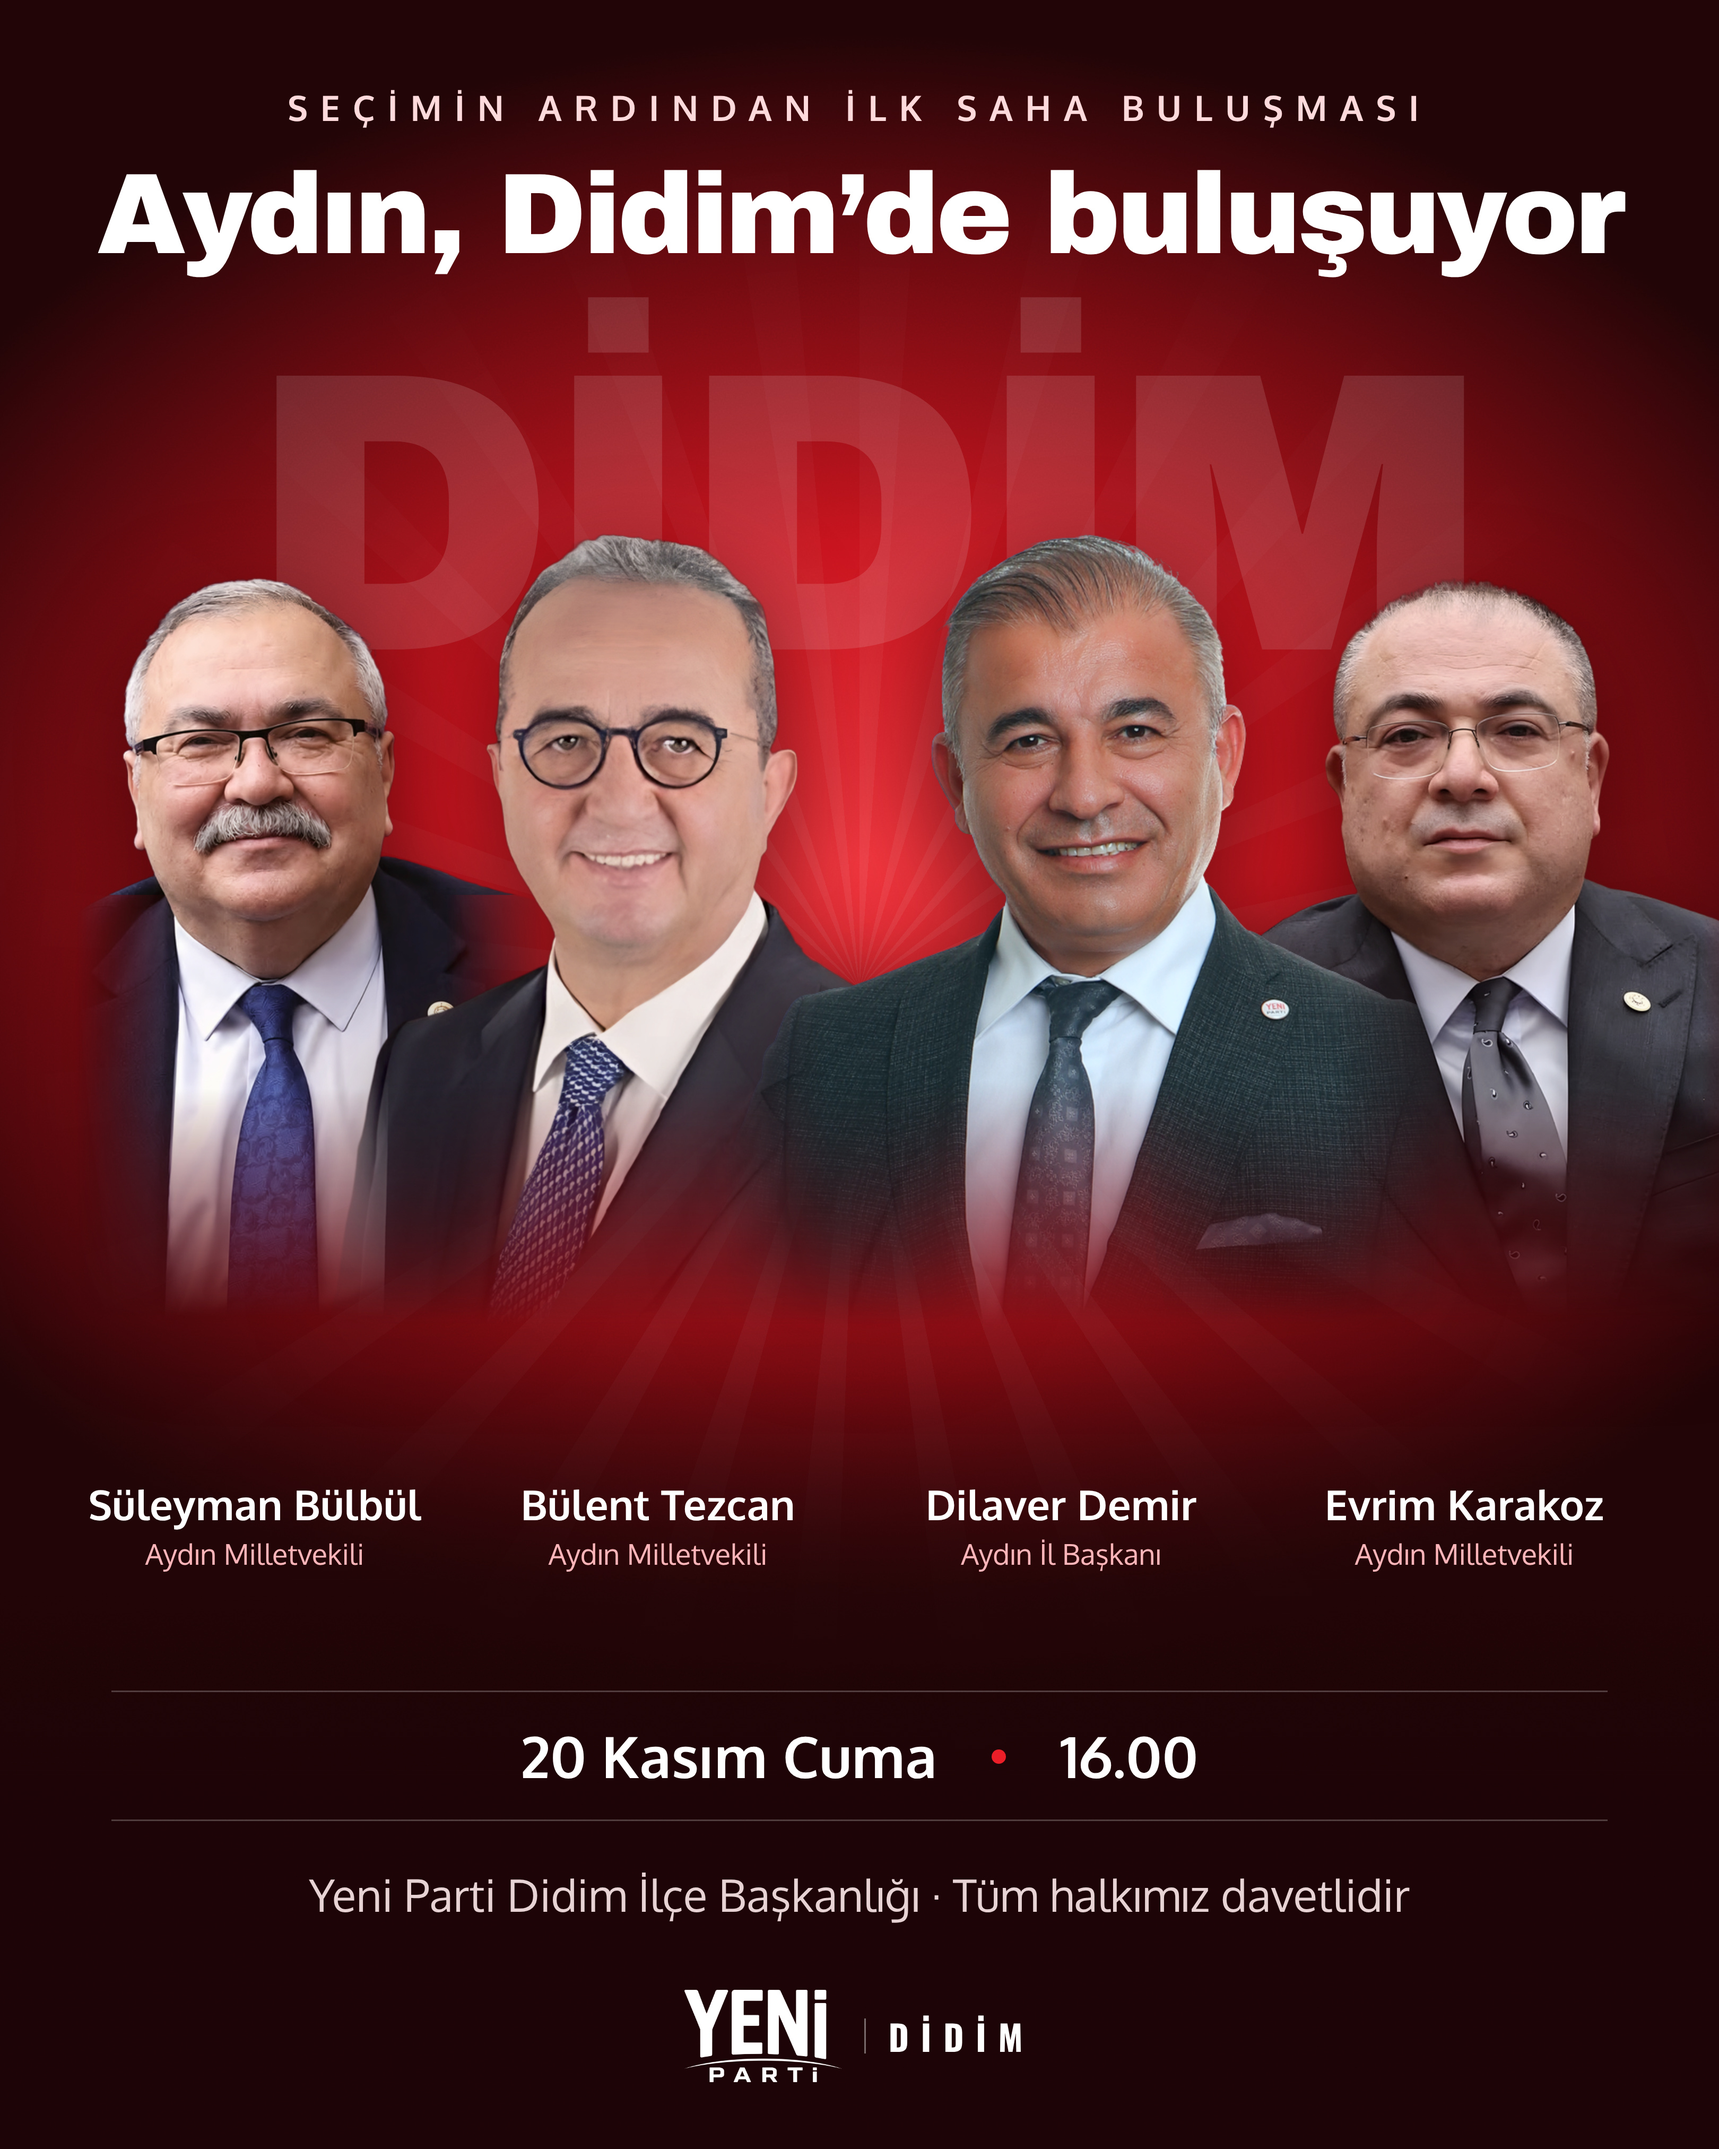
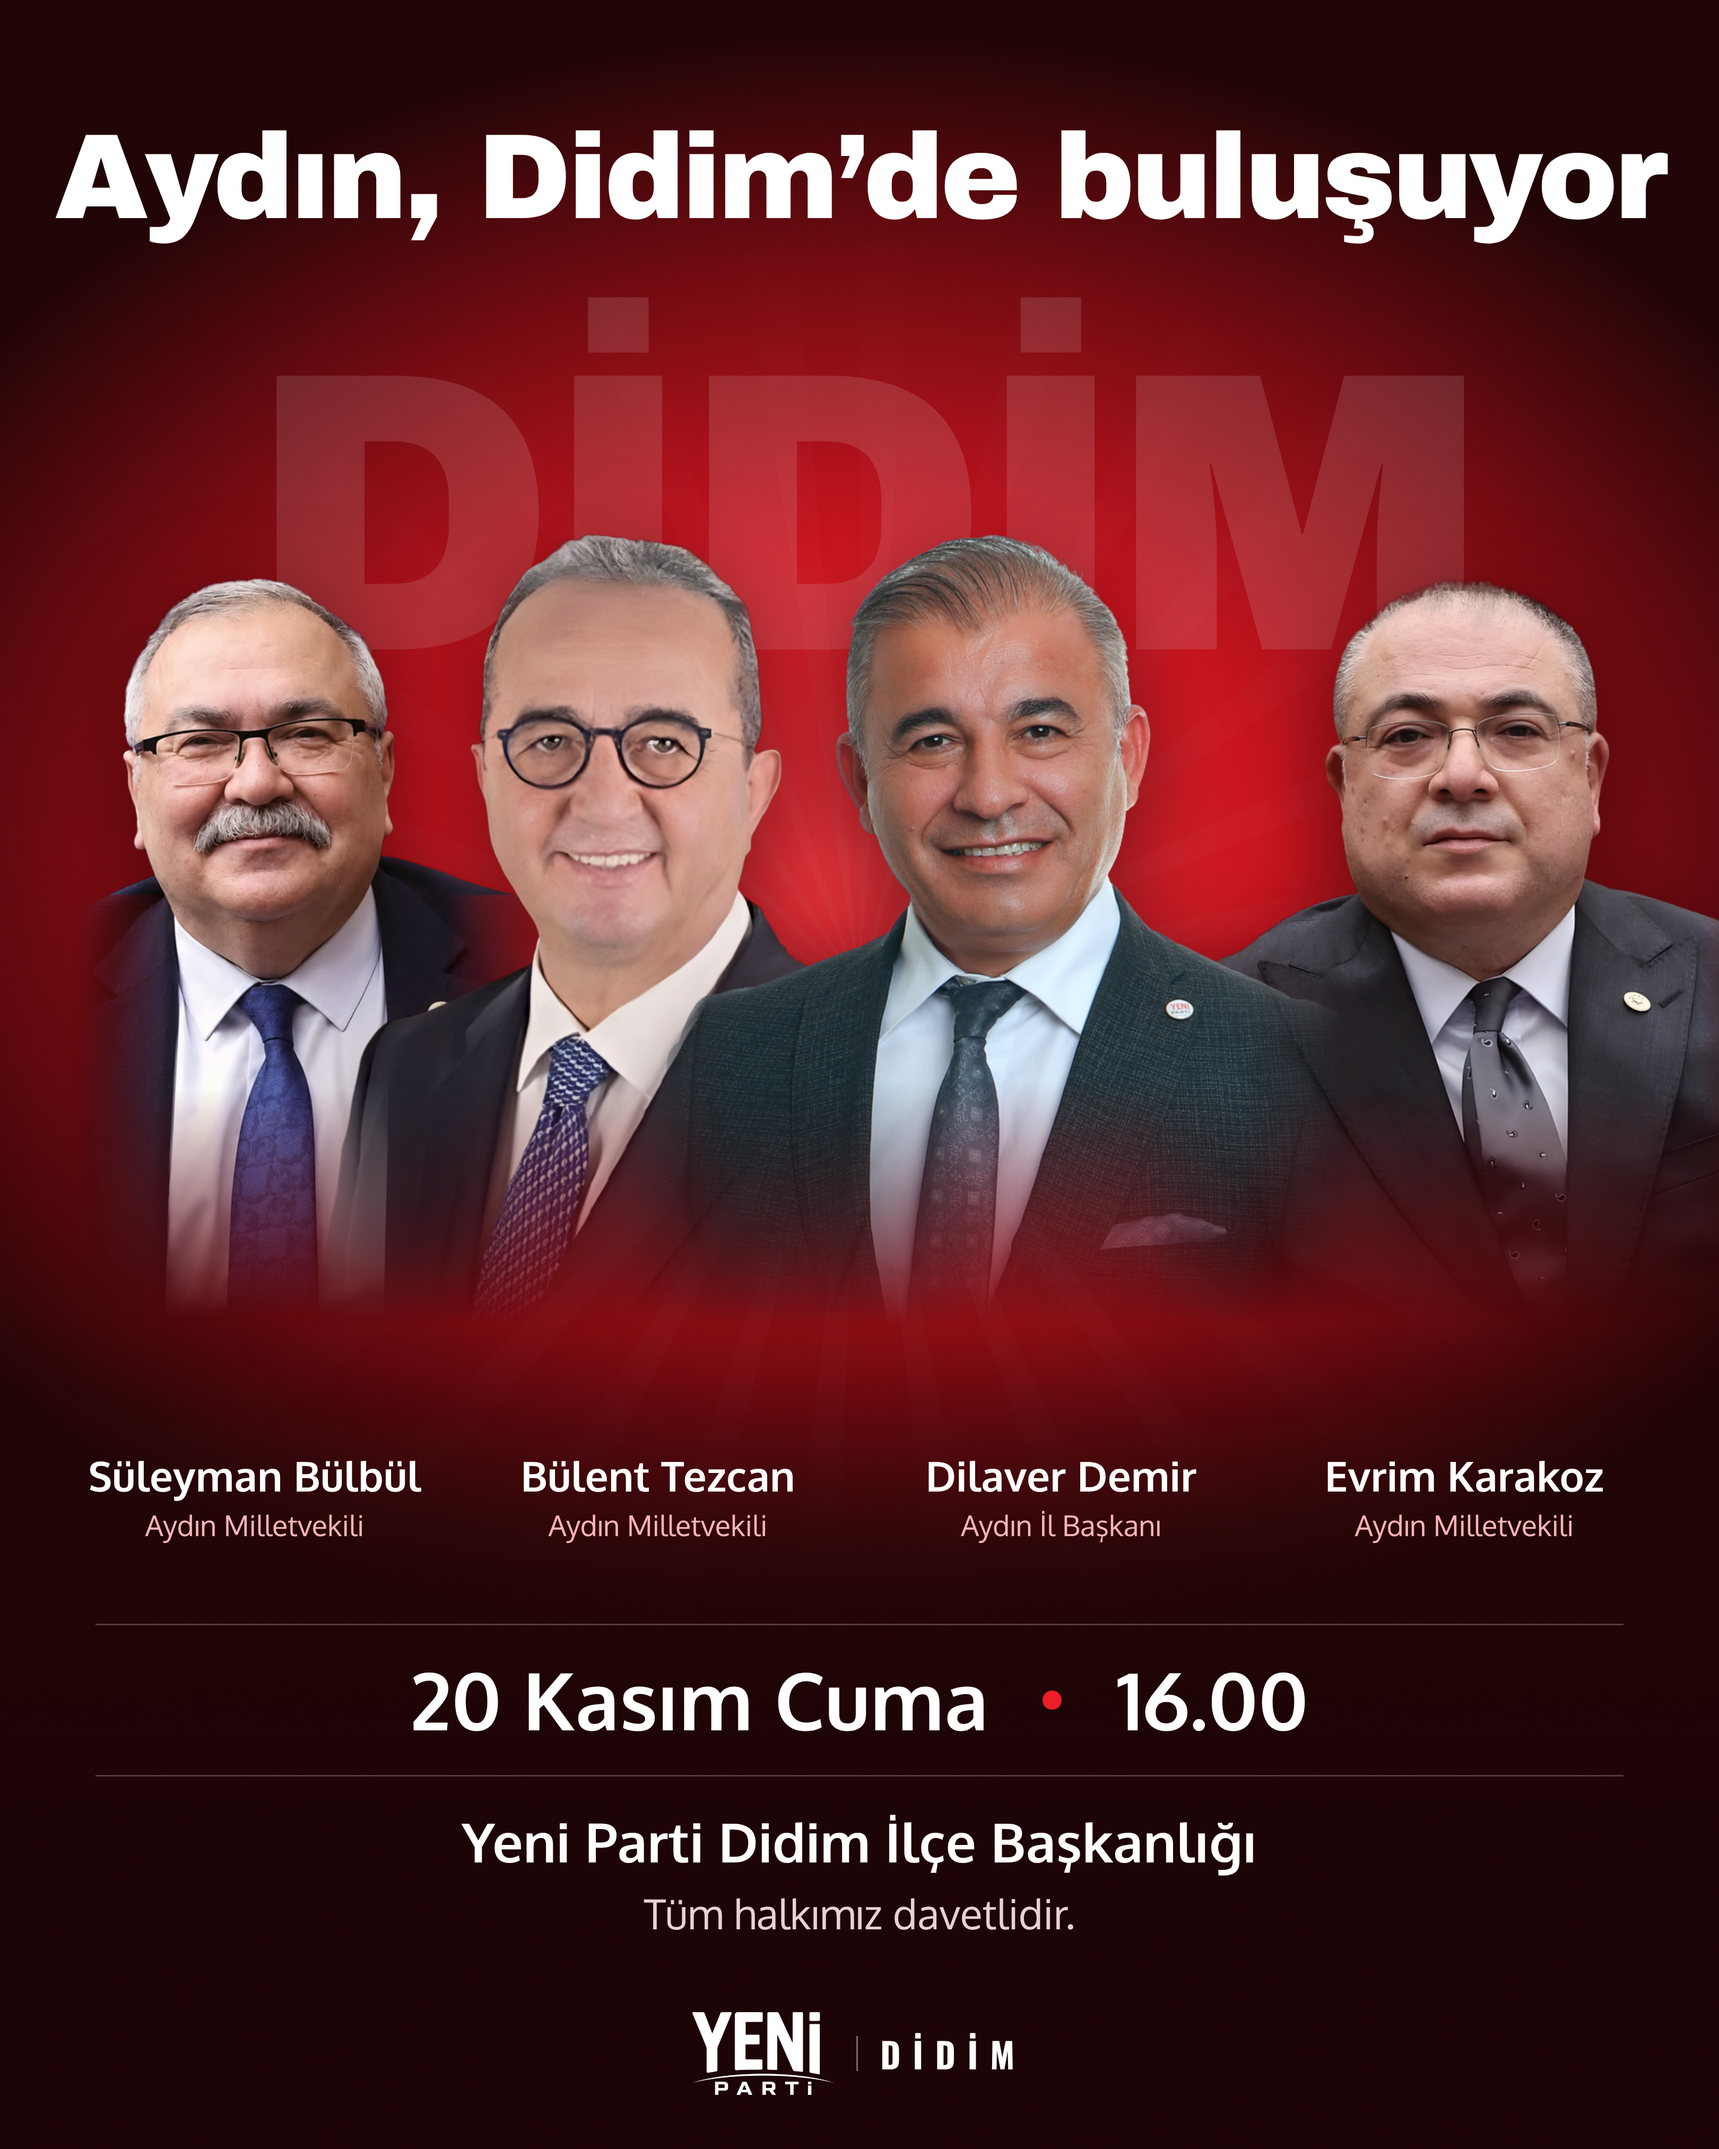
Vekil ziyareti: üst yazı kaldırıldı, araya düşen ışık kapatıldı, bilgi büyütüldü
Claude-Session: https://claude.ai/code/session_01SatttGbgBLoCnk9KGLypWv

diff --git a/tasarim/kisisel/vekil-ziyaret/grup.html b/tasarim/kisisel/vekil-ziyaret/grup.html
@@ -8,33 +8,33 @@
 :root{--kir:#EC1E27}
 html,body{margin:0;width:1080px;height:1350px;overflow:hidden;color:#fff;font-family:Ox,sans-serif;
 background:radial-gradient(700px 520px at 50% 40%,#F2363E 0,#C8141E 38%,#6E0A10 72%,#200406 100%)}
-.isin{position:absolute;inset:0;background:repeating-conic-gradient(from 0deg at 50% 46%,rgba(255,255,255,.07) 0 4deg,transparent 4deg 13deg);-webkit-mask:radial-gradient(circle at 50% 46%,#000 0,transparent 62%)}
+.isin{position:absolute;inset:0;background:repeating-conic-gradient(from 0deg at 50% 46%,rgba(255,255,255,.035) 0 4deg,transparent 4deg 13deg);-webkit-mask:radial-gradient(circle at 50% 46%,#000 0,transparent 62%)}
 .gren{position:absolute;inset:0;opacity:.12;mix-blend-mode:overlay}
 .arka{position:absolute;left:0;right:0;top:200px;text-align:center;font:250px/1 AB;letter-spacing:-.04em;color:rgba(255,255,255,.12)}
 .ust{position:absolute;left:0;right:0;top:56px;text-align:center}
 .ust .k{font:700 22px/1 Ox;letter-spacing:.36em;color:#FFD9DB}
-.ust h1{margin:18px 0 0;font:72px/1.1 AB;white-space:nowrap;letter-spacing:-.03em}
+.ust h1{margin:14px 0 0;font:76px/1.1 AB;white-space:nowrap;letter-spacing:-.03em}
 .p{position:absolute;filter:drop-shadow(0 18px 30px rgba(30,0,0,.55))}
 .alt{position:absolute;left:0;right:0;bottom:0;height:520px;background:linear-gradient(180deg,rgba(32,4,6,0) 0,rgba(32,4,6,.85) 32%,#1C0305 60%)}
-.isimler{position:absolute;left:40px;right:40px;top:930px;display:flex;justify-content:space-between;text-align:center}
+.isimler{position:absolute;left:40px;right:40px;top:912px;display:flex;justify-content:space-between;text-align:center}
 .isimler div{width:240px}.isimler b{display:block;font:700 26px/1.15 Ox}.isimler span{display:block;margin-top:6px;font:400 18px/1.2 Ox;color:#FFB3B7}
-.bilgi{position:absolute;left:70px;right:70px;top:1062px;display:flex;align-items:center;justify-content:center;gap:34px;padding:22px 0;border-top:1px solid rgba(255,255,255,.22);border-bottom:1px solid rgba(255,255,255,.22)}
-.bilgi b{font:700 36px/1 Ox}.bilgi i{width:9px;height:9px;border-radius:50%;background:var(--kir);display:inline-block}
-.yer{position:absolute;left:0;right:0;top:1176px;text-align:center;font:400 28px/1 Ox;color:#E8D2D3}
-.logo{position:absolute;left:0;right:0;bottom:42px;display:flex;justify-content:center;align-items:center;gap:14px}
-.logo img{height:58px}.logo span{font:22px/1 O7;letter-spacing:.34em;color:#fff;padding-left:14px;border-left:1.5px solid rgba(255,255,255,.4)}
+.bilgi{position:absolute;left:60px;right:60px;top:1020px;display:flex;align-items:center;justify-content:center;gap:34px;padding:22px 0;border-top:1px solid rgba(255,255,255,.22);border-bottom:1px solid rgba(255,255,255,.22)}
+.bilgi b{font:700 50px/1 Ox}.bilgi i{width:12px;height:12px;border-radius:50%;background:var(--kir);display:inline-block}
+.yer{position:absolute;left:0;right:0;top:1136px;text-align:center;font:700 34px/1.25 Ox;color:#fff}.yer small{display:block;font:400 26px/1 Ox;color:#E8D2D3;margin-top:10px}
+.logo{position:absolute;left:0;right:0;bottom:34px;display:flex;justify-content:center;align-items:center;gap:14px}
+.logo img{height:52px}.logo span{font:22px/1 O7;letter-spacing:.34em;color:#fff;padding-left:14px;border-left:1.5px solid rgba(255,255,255,.4)}
 </style><body>
 <div class="isin"></div>
 <div class="arka">DİDİM</div>
-<div class="ust"><div class="k">SEÇİMİN ARDINDAN İLK SAHA BULUŞMASI</div><h1>Aydın, Didim’de buluşuyor</h1></div>
+<div class="ust"><h1>Aydın, Didim’de buluşuyor</h1></div>
 <img class="p" src="bulbul-g.png" style="left:-50px;top:330px;width:420px;z-index:1">
 <img class="p" src="karakoz-g.png" style="left:710px;top:330px;width:420px;z-index:1">
-<img class="p" src="tezcan-g.png" style="left:175px;top:300px;width:450px;z-index:2">
-<img class="p" src="demir-g.png" style="left:455px;top:300px;width:450px;z-index:2">
+<img class="p" src="tezcan-g.png" style="left:165px;top:300px;width:450px;z-index:2">
+<img class="p" src="demir-g.png" style="left:395px;top:300px;width:450px;z-index:3">
 <div class="alt"></div>
 <div class="isimler"><div><b>Süleyman Bülbül</b><span>Aydın Milletvekili</span></div><div><b>Bülent Tezcan</b><span>Aydın Milletvekili</span></div><div><b>Dilaver Demir</b><span>Aydın İl Başkanı</span></div><div><b>Evrim Karakoz</b><span>Aydın Milletvekili</span></div></div>
 <div class="bilgi"><b>20 Kasım Cuma</b><i></i><b>16.00</b></div>
-<div class="yer">Yeni Parti Didim İlçe Başkanlığı · Tüm halkımız davetlidir</div>
+<div class="yer">Yeni Parti Didim İlçe Başkanlığı<small>Tüm halkımız davetlidir.</small></div>
 <div class="logo"><img src="yp-beyaz.png"><span>DİDİM</span></div>
 <svg class="gren" width="1080" height="1350"><filter id="n"><feTurbulence type="fractalNoise" baseFrequency=".9" numOctaves="2" seed="5"/><feColorMatrix type="saturate" values="0"/></filter><rect width="1080" height="1350" filter="url(#n)"/></svg>
 </body></html>
